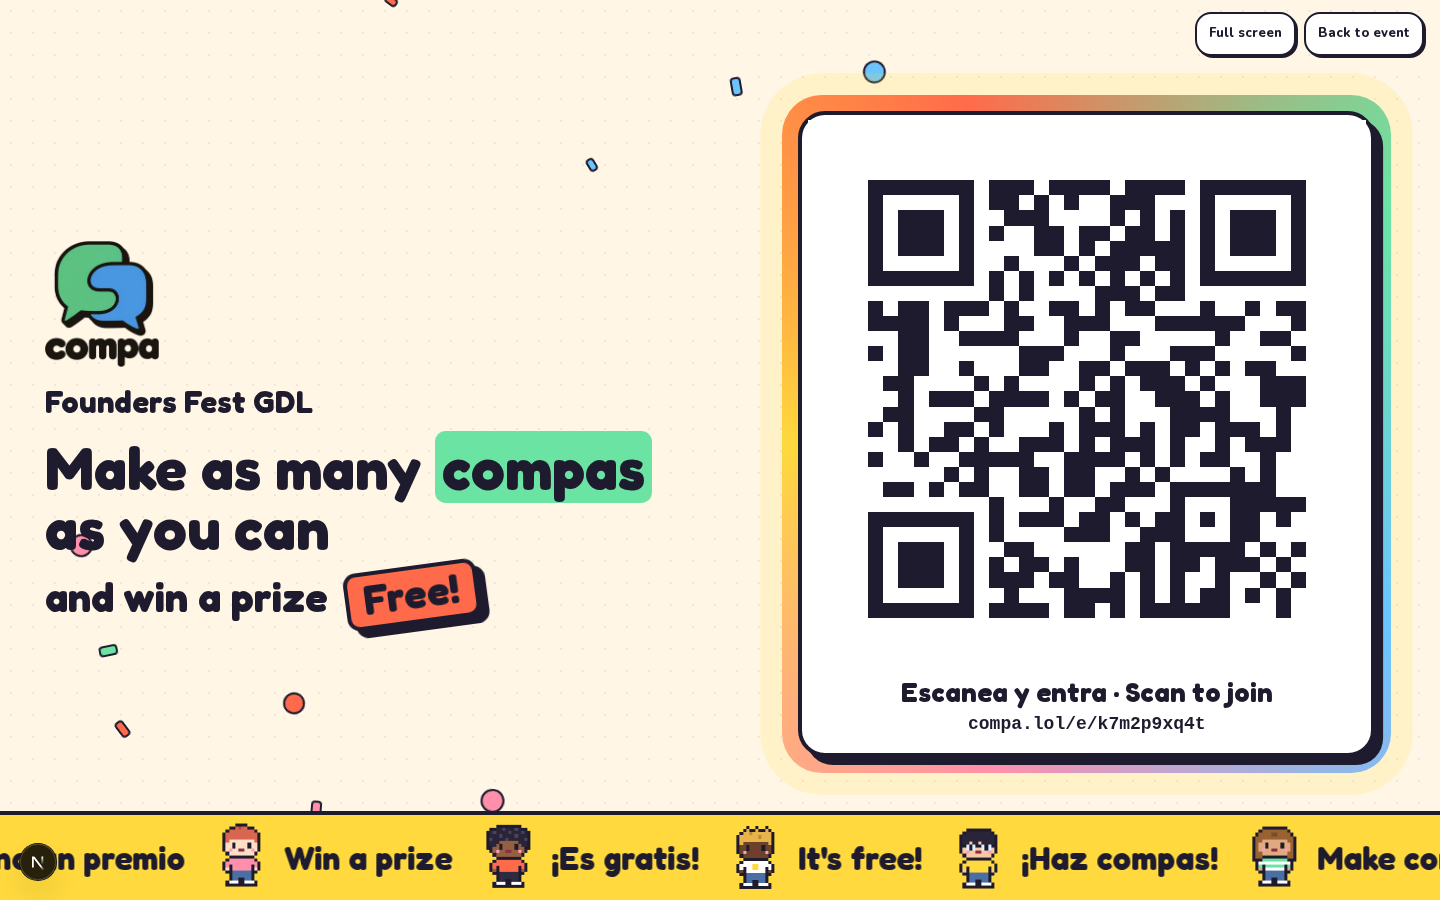
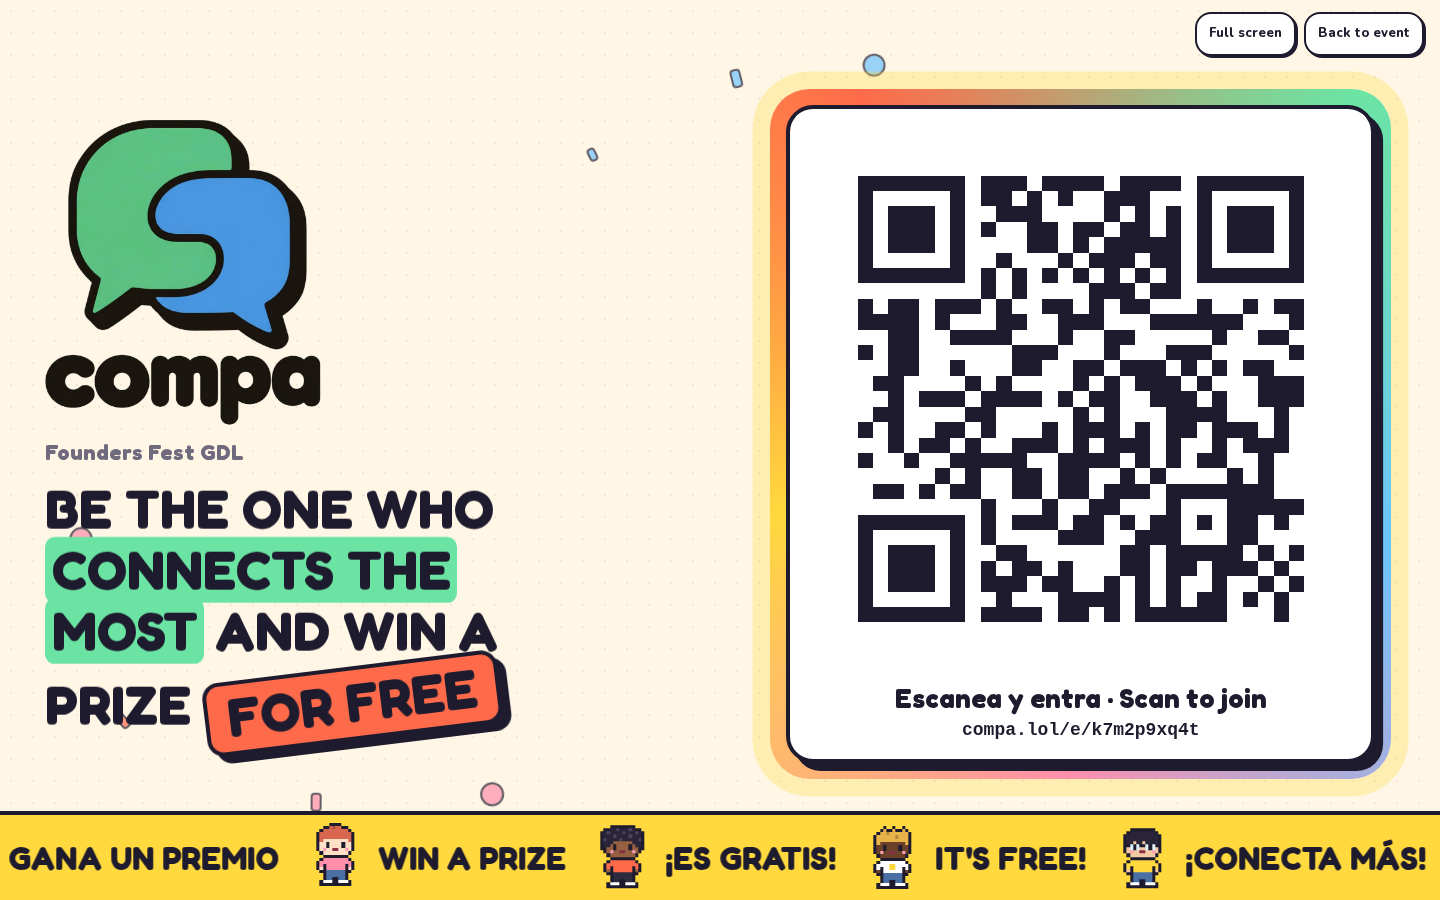
docs(admin): refresh the QR poster note and screenshots
Describe the new caption, hero logo, one-screen layout and entry points, and
add iPad portrait and landscape shots.

diff --git a/DESIGN.md b/DESIGN.md
@@ -222,7 +222,7 @@ Approved decisions (A5, A6, M13, M16). The handoff has no big-screen mock.
 
 ### Admin QR poster
 
-`/admin/events/<slug>/poster` (`components/admin/QrPoster.tsx`, opened by "Show QR poster" on the event page): a bare full-screen promo for a projector, TV or phone, 360 px to 3840×2160. Logo, event name, the call to action in Spanish and English, and the join QR as large as the screen allows (`--qr`, beside the text in landscape, below it in portrait). Sizes, borders and shadows scale with `vmin`. **The QR never moves:** the motion (falling confetti behind the content, the `poster-halo` ring behind the QR card, the language cross-fade `--animate-poster-swap`, the monito ticker `--animate-marquee`) never covers, transforms or blurs it. With reduced motion the confetti is hidden and the two languages stack.
+`/admin/events/<slug>/poster` (`components/admin/QrPoster.tsx`, opened in a new tab by the sun "Show QR poster" button in the event header at every width, and by "Full-screen poster" in the QR panel): a bare full-screen promo for a projector, TV, iPad or phone, 360 px to 3840×2160, that fits one screen with no scroll. A hero-sized logo (`--logo`, about a third of the short side in landscape), the event name as a small muted line, the owner's caption "BE THE ONE WHO CONNECTS THE MOST AND WIN A PRIZE FOR FREE" / "SÉ QUIEN MÁS CONECTE Y GANA UN PREMIO GRATIS" (`--cta`, "connects the most" in mint, "for free" on a coral sticker), and the join QR as large as the screen allows (`--qr`, at least 40 % of the short side). Landscape (laptop, TV, iPad 1180×820) puts logo and caption beside the QR; portrait (phone, iPad 820×1180) stacks logo, caption, QR. Sizes come from `vmin`, `vw` and `dvh`. **The QR never moves:** it stays white with dark modules and a 4-module quiet zone, and the motion (falling confetti behind the content, the `poster-halo` ring behind the QR card, the bobbing logo, the caption's language cross-fade `--animate-poster-swap`, the wiggling sticker, the monito ticker `--animate-marquee`) never covers, transforms or blurs it. With reduced motion everything is still and both captions stack.
 
 ## Decided vs open
 

diff --git a/docs/flows/backlog.md b/docs/flows/backlog.md
@@ -410,7 +410,7 @@ Each IP ticket also carries a priority, and it is counted in that priority colum
 | --- | --- | --- | --- | --- |
 | backend+ui | P1 | live+seeds | T-000, T-020, T-022, OQ #56 | L |
 - **State:** Ready on `feat/COMPA-TBD-super-admin-test-harness` (2026-10-29), pending review. `/admin`, `/admin/events/new`, `/admin/events/<slug>` and the `GET`/`PATCH /api/admin/events…`, `…/end`, `…/archive`, attendee and organizer routes. Captain change: non-super-admins get **404**, not 403 (API spec A11). Archive is `events.status = 'archived'`, not `archived_at`. Redesign on `fm/compa-admin-redesign` (2026-10-29): paged, searchable and sortable lists with stats, bulk actions and a tabbed event page (`DESIGN.md` "Responsive breakpoints"). E2E: `e2e/admin/api.spec.ts` and `console-real.spec.ts` (`@real`), `console.spec.ts` (mock).
-- **QR promo poster:** Ready on `fm/compa-admin-promo` (2026-10-29): `/admin/events/<slug>/poster`, a full-screen bilingual promo with the event QR for a projector or TV (`DESIGN.md` "Admin QR poster"); E2E `e2e/admin/poster.spec.ts` (mock).
+- **QR promo poster:** Ready on `fm/compa-admin-promo` (2026-10-29): `/admin/events/<slug>/poster`, a full-screen bilingual promo ("Be the one who connects the most and win a prize for free") with a big logo and the event QR for a projector, TV, iPad or phone (`DESIGN.md` "Admin QR poster"); E2E `e2e/admin/poster.spec.ts` (mock).
 
 - **E2E:** `e2e/admin/events.spec.ts`. Scenarios: create, edit window, end now (pending request then shows expired), archive; validation errors; non-admin 403.
 - **Files:**

diff --git a/docs/flows/catalog.md b/docs/flows/catalog.md
@@ -1040,7 +1040,7 @@ Known gaps: `<html lang>` is always `es` (a `test.fixme` in `e2e/system/i18n.spe
 | Errors | `invalid_input`, 401, 403 `forbidden`, 409 `slug_taken` |
 | Edge cases | Slug auto-fills from the name and is checked live; time zone (T-024) |
 | Status | UI Ready · API Ready · DB Ready |
-| E2E coverage | `e2e/admin/console.spec.ts` (@mock: new-event slug, list, QR tab), `e2e/admin/poster.spec.ts` (@mock: QR promo poster link, logo, both languages, still and uncovered QR, reduced motion, unknown event 404) and `e2e/admin/api.spec.ts` (@real: create, `slug_taken`, non-admin 404) |
+| E2E coverage | `e2e/admin/console.spec.ts` (@mock: new-event slug, list, QR tab), `e2e/admin/poster.spec.ts` (@mock: poster links from the header and QR panel, big logo, the exact caption in both languages, one screen with no scroll, large still uncovered QR, iPad landscape, reduced motion, unknown event) and `e2e/admin/api.spec.ts` (@real: create, `slug_taken`, non-admin 404) |
 | Tickets | [T-023](backlog.md#t-023) |
 
 <a id="f-56"></a>
